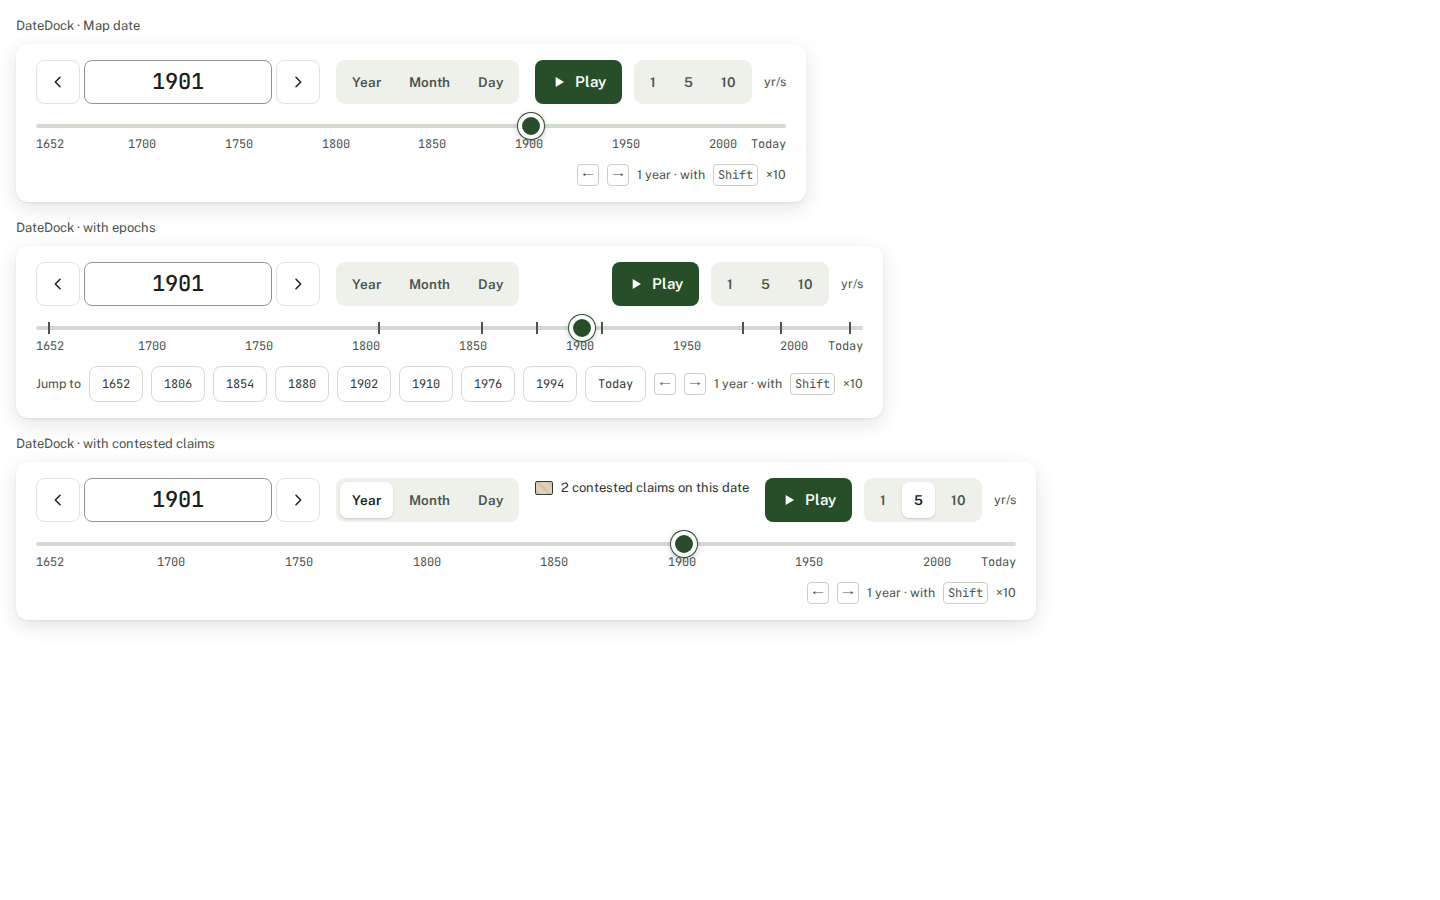
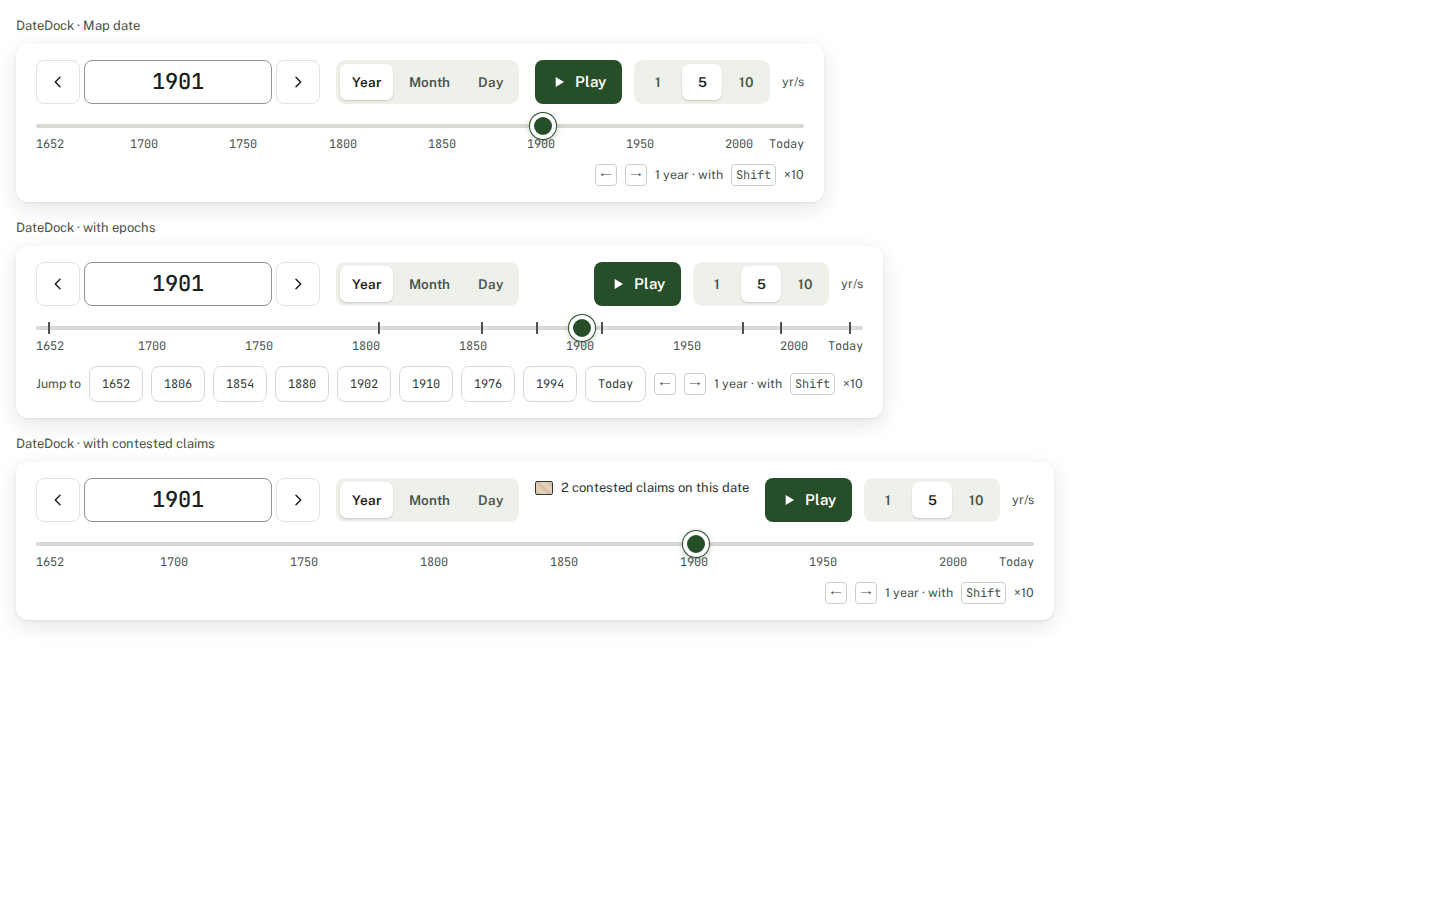
chore: export and render design snapshots

diff --git a/design/source/relationship-cycle.html b/design/source/relationship-cycle.html
@@ -849,12 +849,12 @@
             </div>
             <div
               aria-label="Type of parent"
-              class="_seg_lele1_3"
+              class="_seg_1qw3k_3"
               role="radiogroup"
               style="background: rgb(238, 240, 234); border-radius: 9px; gap: 4px; padding: 4px; display: flex;">
               <label
-                class="_segItem_lele1_11 _ringWithin_180bu_14"
-                style='border-radius: 7px; box-sizing: border-box; color: rgb(24, 33, 27); cursor: pointer; font-family: "Public Sans", system-ui, sans-serif; font-size: 13.5px; font-weight: 600; height: 36px; line-height: 20px; padding: 0px 12px; align-items: center; display: flex; position: relative; background: rgb(255, 255, 255); box-shadow: rgba(24, 33, 27, 0.18) 0px 1px 2px 0px;'>
+                class="_segItem_1qw3k_11 _ringWithin_180bu_14"
+                style='border-radius: 7px; box-sizing: border-box; color: rgb(24, 33, 27); cursor: pointer; font-family: "Public Sans", system-ui, sans-serif; font-size: 13.5px; font-weight: 600; height: 36px; line-height: 20px; min-width: 40px; padding: 0px 12px; justify-content: center; align-items: center; display: flex; position: relative; background: rgb(255, 255, 255); box-shadow: rgba(24, 33, 27, 0.18) 0px 1px 2px 0px;'>
                 <input
                   name="subtype"
                   type="radio"
@@ -864,8 +864,8 @@
                 Biological
               </label>
               <label
-                class="_segItem_lele1_11 _ringWithin_180bu_14"
-                style='border-radius: 7px; box-sizing: border-box; color: rgb(74, 84, 76); cursor: pointer; font-family: "Public Sans", system-ui, sans-serif; font-size: 13.5px; font-weight: 600; height: 36px; line-height: 20px; padding: 0px 12px; align-items: center; display: flex; position: relative;'>
+                class="_segItem_1qw3k_11 _ringWithin_180bu_14"
+                style='border-radius: 7px; box-sizing: border-box; color: rgb(74, 84, 76); cursor: pointer; font-family: "Public Sans", system-ui, sans-serif; font-size: 13.5px; font-weight: 600; height: 36px; line-height: 20px; min-width: 40px; padding: 0px 12px; justify-content: center; align-items: center; display: flex; position: relative;'>
                 <input
                   name="subtype"
                   type="radio"
@@ -874,8 +874,8 @@
                 Adoptive
               </label>
               <label
-                class="_segItem_lele1_11 _ringWithin_180bu_14"
-                style='border-radius: 7px; box-sizing: border-box; color: rgb(74, 84, 76); cursor: pointer; font-family: "Public Sans", system-ui, sans-serif; font-size: 13.5px; font-weight: 600; height: 36px; line-height: 20px; padding: 0px 12px; align-items: center; display: flex; position: relative;'>
+                class="_segItem_1qw3k_11 _ringWithin_180bu_14"
+                style='border-radius: 7px; box-sizing: border-box; color: rgb(74, 84, 76); cursor: pointer; font-family: "Public Sans", system-ui, sans-serif; font-size: 13.5px; font-weight: 600; height: 36px; line-height: 20px; min-width: 40px; padding: 0px 12px; justify-content: center; align-items: center; display: flex; position: relative;'>
                 <input
                   name="subtype"
                   type="radio"

diff --git a/design/source/relationship-details-parent.html b/design/source/relationship-details-parent.html
@@ -809,12 +809,12 @@
             </div>
             <div
               aria-label="Type of parent"
-              class="_seg_lele1_3"
+              class="_seg_1qw3k_3"
               role="radiogroup"
               style="background: rgb(238, 240, 234); border-radius: 9px; gap: 4px; padding: 4px; display: flex;">
               <label
-                class="_segItem_lele1_11 _ringWithin_180bu_14"
-                style='border-radius: 7px; box-sizing: border-box; color: rgb(24, 33, 27); cursor: pointer; font-family: "Public Sans", system-ui, sans-serif; font-size: 13.5px; font-weight: 600; height: 36px; line-height: 20px; padding: 0px 12px; align-items: center; display: flex; position: relative; background: rgb(255, 255, 255); box-shadow: rgba(24, 33, 27, 0.18) 0px 1px 2px 0px;'>
+                class="_segItem_1qw3k_11 _ringWithin_180bu_14"
+                style='border-radius: 7px; box-sizing: border-box; color: rgb(24, 33, 27); cursor: pointer; font-family: "Public Sans", system-ui, sans-serif; font-size: 13.5px; font-weight: 600; height: 36px; line-height: 20px; min-width: 40px; padding: 0px 12px; justify-content: center; align-items: center; display: flex; position: relative; background: rgb(255, 255, 255); box-shadow: rgba(24, 33, 27, 0.18) 0px 1px 2px 0px;'>
                 <input
                   name="subtype"
                   type="radio"
@@ -824,8 +824,8 @@
                 Biological
               </label>
               <label
-                class="_segItem_lele1_11 _ringWithin_180bu_14"
-                style='border-radius: 7px; box-sizing: border-box; color: rgb(74, 84, 76); cursor: pointer; font-family: "Public Sans", system-ui, sans-serif; font-size: 13.5px; font-weight: 600; height: 36px; line-height: 20px; padding: 0px 12px; align-items: center; display: flex; position: relative;'>
+                class="_segItem_1qw3k_11 _ringWithin_180bu_14"
+                style='border-radius: 7px; box-sizing: border-box; color: rgb(74, 84, 76); cursor: pointer; font-family: "Public Sans", system-ui, sans-serif; font-size: 13.5px; font-weight: 600; height: 36px; line-height: 20px; min-width: 40px; padding: 0px 12px; justify-content: center; align-items: center; display: flex; position: relative;'>
                 <input
                   name="subtype"
                   type="radio"
@@ -834,8 +834,8 @@
                 Adoptive
               </label>
               <label
-                class="_segItem_lele1_11 _ringWithin_180bu_14"
-                style='border-radius: 7px; box-sizing: border-box; color: rgb(74, 84, 76); cursor: pointer; font-family: "Public Sans", system-ui, sans-serif; font-size: 13.5px; font-weight: 600; height: 36px; line-height: 20px; padding: 0px 12px; align-items: center; display: flex; position: relative;'>
+                class="_segItem_1qw3k_11 _ringWithin_180bu_14"
+                style='border-radius: 7px; box-sizing: border-box; color: rgb(74, 84, 76); cursor: pointer; font-family: "Public Sans", system-ui, sans-serif; font-size: 13.5px; font-weight: 600; height: 36px; line-height: 20px; min-width: 40px; padding: 0px 12px; justify-content: center; align-items: center; display: flex; position: relative;'>
                 <input
                   name="subtype"
                   type="radio"

diff --git a/design/source/relationship-save-failed.html b/design/source/relationship-save-failed.html
@@ -809,12 +809,12 @@
             </div>
             <div
               aria-label="Type of child"
-              class="_seg_lele1_3"
+              class="_seg_1qw3k_3"
               role="radiogroup"
               style="background: rgb(238, 240, 234); border-radius: 9px; gap: 4px; padding: 4px; display: flex;">
               <label
-                class="_segItem_lele1_11 _ringWithin_180bu_14"
-                style='border-radius: 7px; box-sizing: border-box; color: rgb(24, 33, 27); cursor: pointer; font-family: "Public Sans", system-ui, sans-serif; font-size: 13.5px; font-weight: 600; height: 36px; line-height: 20px; padding: 0px 12px; align-items: center; display: flex; position: relative; background: rgb(255, 255, 255); box-shadow: rgba(24, 33, 27, 0.18) 0px 1px 2px 0px;'>
+                class="_segItem_1qw3k_11 _ringWithin_180bu_14"
+                style='border-radius: 7px; box-sizing: border-box; color: rgb(24, 33, 27); cursor: pointer; font-family: "Public Sans", system-ui, sans-serif; font-size: 13.5px; font-weight: 600; height: 36px; line-height: 20px; min-width: 40px; padding: 0px 12px; justify-content: center; align-items: center; display: flex; position: relative; background: rgb(255, 255, 255); box-shadow: rgba(24, 33, 27, 0.18) 0px 1px 2px 0px;'>
                 <input
                   name="subtype"
                   type="radio"
@@ -824,8 +824,8 @@
                 Biological
               </label>
               <label
-                class="_segItem_lele1_11 _ringWithin_180bu_14"
-                style='border-radius: 7px; box-sizing: border-box; color: rgb(74, 84, 76); cursor: pointer; font-family: "Public Sans", system-ui, sans-serif; font-size: 13.5px; font-weight: 600; height: 36px; line-height: 20px; padding: 0px 12px; align-items: center; display: flex; position: relative;'>
+                class="_segItem_1qw3k_11 _ringWithin_180bu_14"
+                style='border-radius: 7px; box-sizing: border-box; color: rgb(74, 84, 76); cursor: pointer; font-family: "Public Sans", system-ui, sans-serif; font-size: 13.5px; font-weight: 600; height: 36px; line-height: 20px; min-width: 40px; padding: 0px 12px; justify-content: center; align-items: center; display: flex; position: relative;'>
                 <input
                   name="subtype"
                   type="radio"
@@ -834,8 +834,8 @@
                 Adoptive
               </label>
               <label
-                class="_segItem_lele1_11 _ringWithin_180bu_14"
-                style='border-radius: 7px; box-sizing: border-box; color: rgb(74, 84, 76); cursor: pointer; font-family: "Public Sans", system-ui, sans-serif; font-size: 13.5px; font-weight: 600; height: 36px; line-height: 20px; padding: 0px 12px; align-items: center; display: flex; position: relative;'>
+                class="_segItem_1qw3k_11 _ringWithin_180bu_14"
+                style='border-radius: 7px; box-sizing: border-box; color: rgb(74, 84, 76); cursor: pointer; font-family: "Public Sans", system-ui, sans-serif; font-size: 13.5px; font-weight: 600; height: 36px; line-height: 20px; min-width: 40px; padding: 0px 12px; justify-content: center; align-items: center; display: flex; position: relative;'>
                 <input
                   name="subtype"
                   type="radio"
